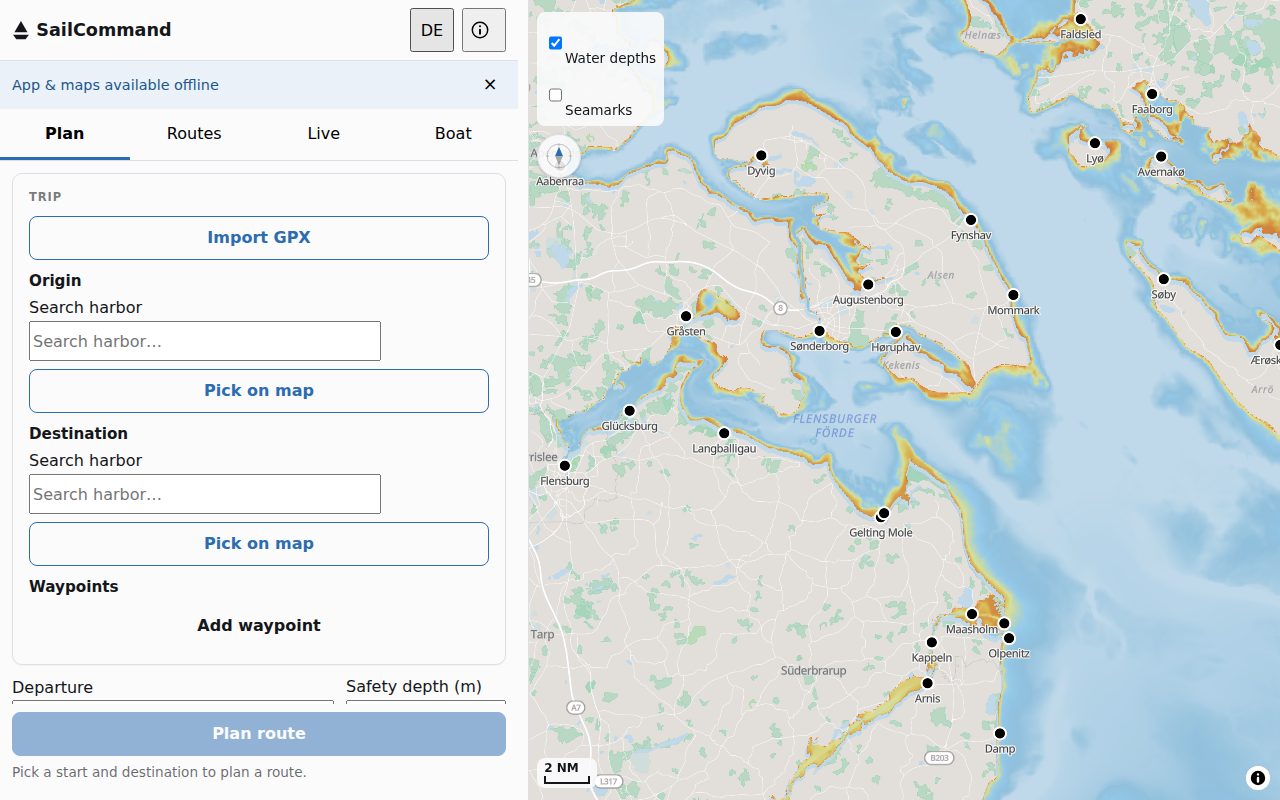
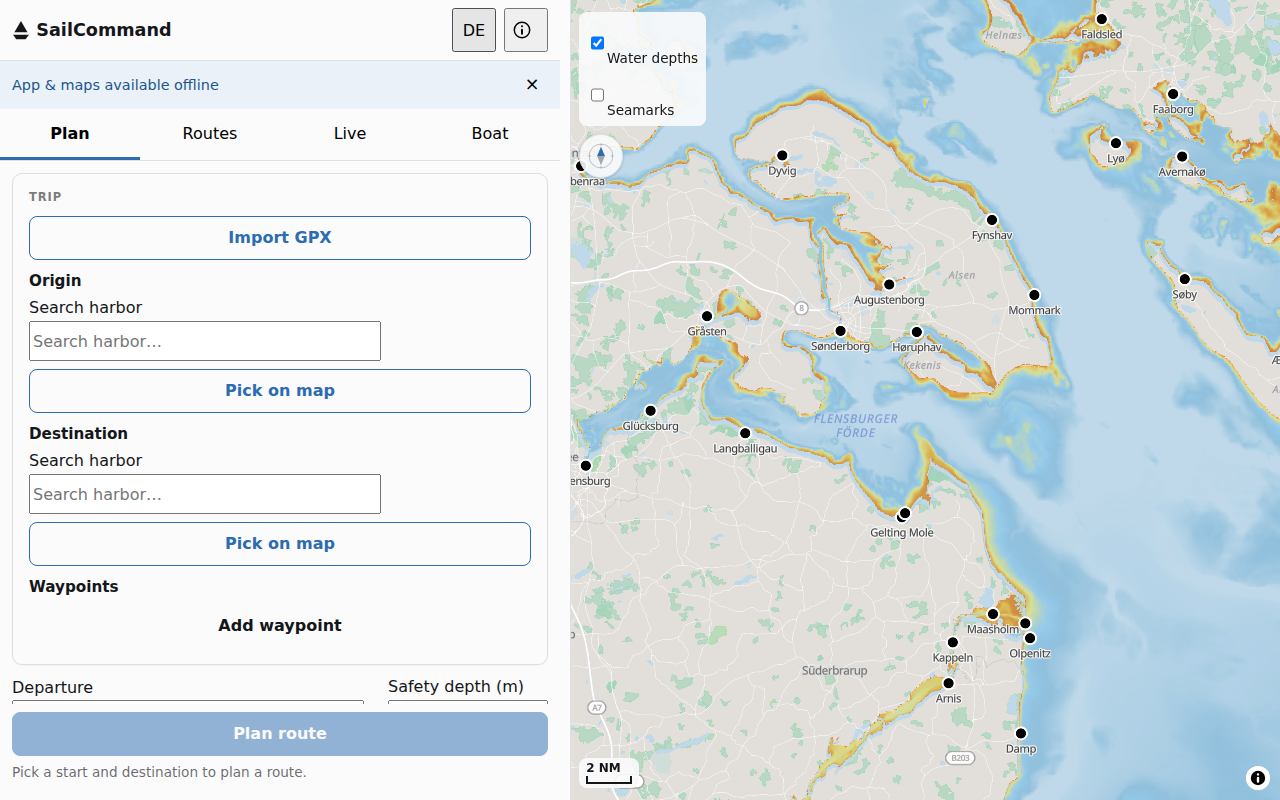
docs(screenshots): recapture for v0.12.0, and show the boat picker
All three captured in one session against the v0.12.0 build, so map state
and banner are consistent across them.

- plan-route.png: the hero image is now 100% SAIL (41.9 nm sailing,
  0.0 nm motor). The previous cut shipped a route that was 81% MOTOR --
  technically current and still wrong, because it showcased the one part
  that is not what a time-optimal SAILING router is for. A star
  recommendation does not imply sail-dominance, so the split was read off
  the result card rather than inferred from the star.
- boat-selection.png: NEW. Multi-boat is the headline feature of this
  release and appeared in no docs image at all. Shows all three hulls with
  their drafts (2.1 / 2.1 / 1.9 m), the polar-provenance tier per boat
  (Modelled / Estimated / Estimated) and the assumed-keel disclosure on the
  two whose draft is the model's standard keel rather than that hull's own
  papers.
- start-view.png: the committed image showed a THREE-tab strip; the app has
  had a fourth Boat tab since 2026-08-10. It also still showed the pre-#64
  harbour picker, replaced by a searchable combobox on 2026-07-18 -- stale
  for a month before anyone looked.

Each image was re-opened and the intended subject confirmed in frame, not
inferred from the file existing.

Refs #54, #132

diff --git a/README.md b/README.md
@@ -37,6 +37,12 @@ planning.
 |---|---|
 | ![Start view: map with curated harbors](docs/screenshots/start-view.png) | ![Planned route with per-leg detail and rig recommendation](docs/screenshots/plan-route.png) |
 
+Picking the boat, with each hull's draft, the provenance tier of its polar
+table, and — where the draft is the model's standard keel rather than that
+hull's own papers — a disclosure saying so:
+
+![Boat tab: the three fleet boats with draft, polar-provenance tier and assumed-keel disclosure](docs/screenshots/boat-selection.png)
+
 ## Install on Android
 
 Open the live URL in Chrome, then use the browser menu → **Add to Home
